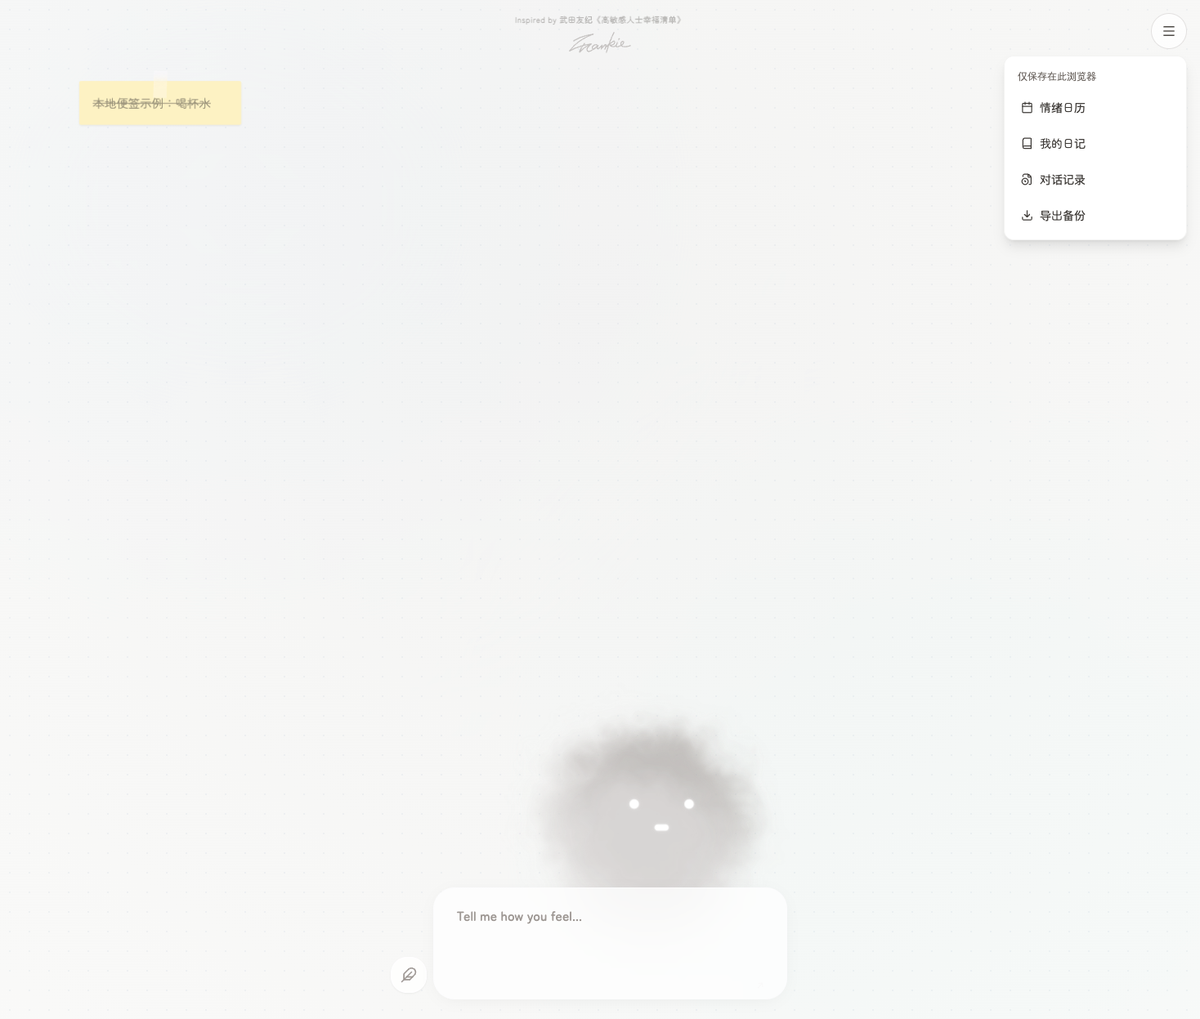
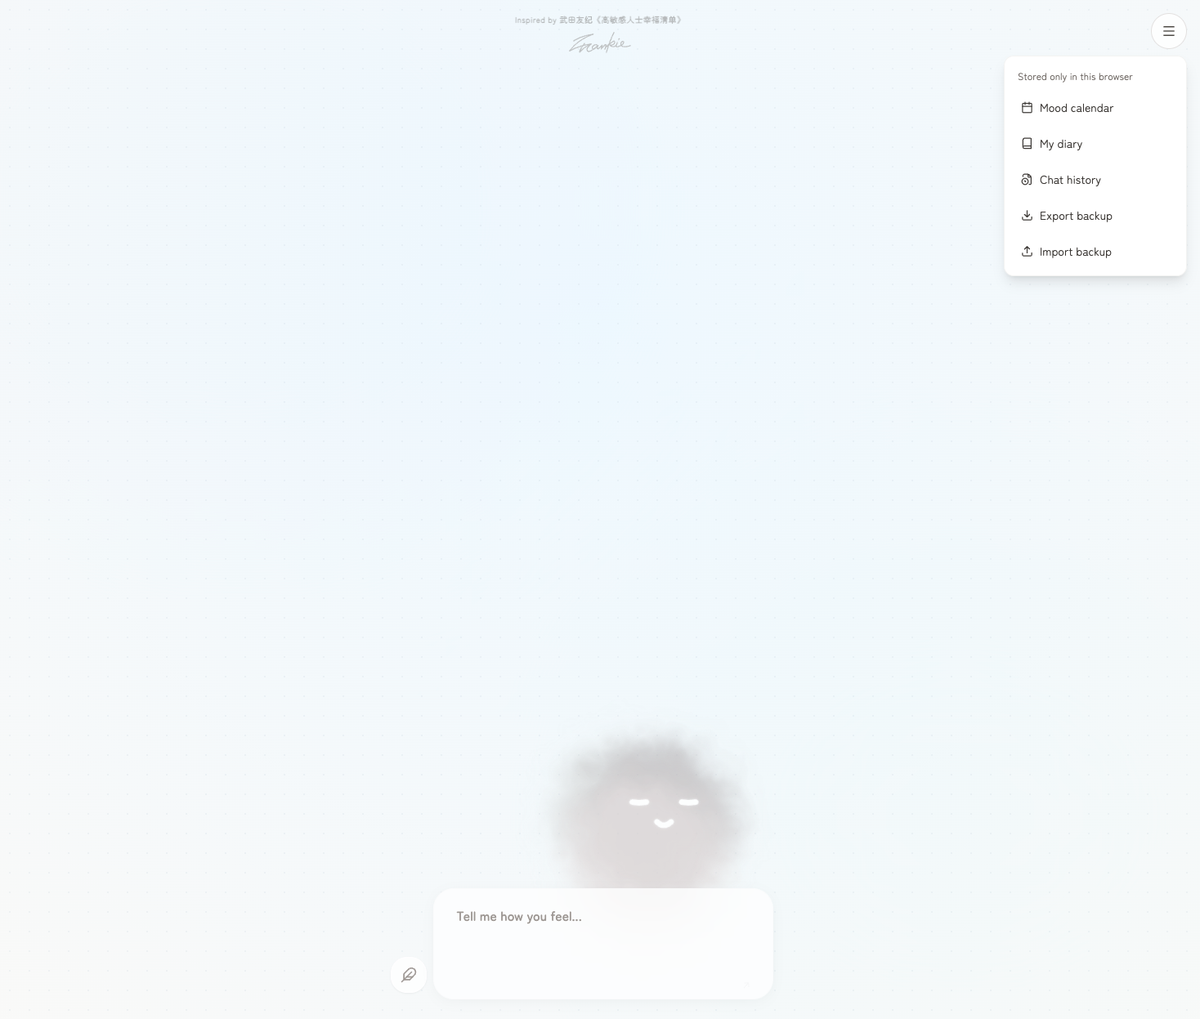
feat: restore local records from JSON backups

Changed region(s): [[0.8583, 0.0609, 0.9809, 0.2743], [0.0613, 0.0609, 0.2146, 0.1219], [0.5211, 0.7009, 0.6131, 0.7923]]

diff --git a/components/ImportBackup.tsx b/components/ImportBackup.tsx
@@ -1,0 +1,102 @@
+import React, { useEffect, useRef, useState } from 'react';
+import { MAX_BACKUP_BYTES, parseBackup, type LocalSnapshot } from '../services/localStorage';
+
+interface Props {
+  language: 'en' | 'cn';
+  waitingForAI: boolean;
+  onClose: () => void;
+  onExport: () => void;
+  onRestore: (snapshot: LocalSnapshot) => void;
+}
+
+export default function ImportBackup({ language, waitingForAI, onClose, onExport, onRestore }: Props) {
+  const zh = language === 'cn';
+  const [backup, setBackup] = useState<LocalSnapshot | null>(null);
+  const [fileName, setFileName] = useState('');
+  const [error, setError] = useState('');
+  const [reading, setReading] = useState(false);
+  const [restoring, setRestoring] = useState(false);
+  const dialog = useRef<HTMLDivElement>(null);
+  const readVersion = useRef(0);
+
+  useEffect(() => {
+    const previous = document.activeElement as HTMLElement | null;
+    dialog.current?.focus();
+    return () => {
+      readVersion.current++;
+      if (previous?.isConnected) previous.focus();
+      else document.querySelector<HTMLButtonElement>('[aria-controls="local-records"]')?.focus();
+    };
+  }, []);
+
+  const selectFile = async (event: React.ChangeEvent<HTMLInputElement>) => {
+    const file = event.target.files?.[0];
+    const version = ++readVersion.current;
+    setBackup(null); setError(''); setFileName('');
+    if (!file) { setReading(false); return; }
+    if (file.size > MAX_BACKUP_BYTES) {
+      setError(zh ? '文件超过 10 MB，请选择较小的 Aurora JSON 备份。' : 'File exceeds 10 MB. Choose a smaller Aurora JSON backup.');
+      return;
+    }
+    setReading(true);
+    try {
+      const parsed = parseBackup(await file.text());
+      if (version !== readVersion.current) return;
+      setBackup(parsed); setFileName(file.name);
+    } catch {
+      if (version !== readVersion.current) return;
+      setError(zh ? '无法读取有效的 Aurora v1 JSON 备份。请检查文件、版本和记录格式；当前数据未改变。' : 'This is not a valid Aurora v1 JSON backup. Check its format, version and records. Current data is unchanged.');
+    } finally {
+      if (version === readVersion.current) setReading(false);
+    }
+  };
+
+  const restore = () => {
+    if (!backup || waitingForAI || reading || restoring) return;
+    setRestoring(true); setError('');
+    try { onRestore(backup); }
+    catch {
+      setRestoring(false);
+      setError(zh ? '恢复失败，当前记录未被替换。请检查浏览器存储权限或可用空间。' : 'Restore failed; current records were not replaced. Check browser storage permissions or available space.');
+    }
+  };
+
+  const counts = backup ? [
+    [zh ? '对话消息' : 'Chat messages', backup.messages.filter(m => m.type !== 'diary').length],
+    [zh ? '日记' : 'Diary entries', backup.messages.filter(m => m.type === 'diary').length],
+    [zh ? '便签' : 'Notes', backup.todos.length],
+    [zh ? '情绪记录' : 'Mood records', backup.emotionLogs.length],
+  ] as const : [];
+
+  return <div className="fixed inset-0 z-[300] flex items-center justify-center bg-stone-900/30 p-4">
+    <div ref={dialog} role="dialog" aria-modal="true" aria-labelledby="import-title" aria-describedby="import-description" tabIndex={-1}
+      className="w-full max-w-lg max-h-[90dvh] overflow-y-auto rounded-2xl bg-stone-50 p-6 shadow-xl outline-none"
+      onKeyDown={event => {
+        if (event.key === 'Escape' && !restoring) { event.stopPropagation(); onClose(); }
+        if (event.key === 'Tab') {
+          const nodes = Array.from(dialog.current?.querySelectorAll<HTMLElement>('button:not(:disabled), input:not(:disabled), a[href]') || []) as HTMLElement[];
+          const first = nodes[0], last = nodes[nodes.length - 1];
+          if (event.shiftKey && (document.activeElement === first || document.activeElement === dialog.current)) { event.preventDefault(); last?.focus(); }
+          else if (!event.shiftKey && (document.activeElement === last || document.activeElement === dialog.current)) { event.preventDefault(); first?.focus(); }
+        }
+      }}>
+      <h2 id="import-title" className="text-xl font-medium text-stone-800">{zh ? '导入 JSON 备份' : 'Import JSON backup'}</h2>
+      <p id="import-description" className="mt-3 text-sm leading-relaxed text-stone-600">{zh ? '文件只在此浏览器读取，不会上传。确认恢复将替换当前对话、日记、便签、情绪记录及偏好，不会合并。建议先导出当前记录。' : 'The file is read in this browser and is not uploaded. Confirming restore replaces current chats, diary, notes, mood history and preferences; it does not merge them. Export your current records first.'}</p>
+      <button type="button" onClick={onExport} className="mt-3 min-h-11 text-sm underline text-stone-700">{zh ? '先导出当前记录' : 'Export current records first'}</button>
+      <label className="mt-4 block text-sm text-stone-700" htmlFor="backup-file">{zh ? '选择 Aurora JSON 文件（最大 10 MB）' : 'Choose an Aurora JSON file (up to 10 MB)'}</label>
+      <input id="backup-file" type="file" accept=".json,application/json" onChange={selectFile} disabled={reading || restoring} className="mt-2 block w-full text-sm text-stone-600 file:mr-3 file:rounded-lg file:border-0 file:bg-white file:px-3 file:py-3" />
+      {reading ? <p role="status" className="mt-4 text-sm">{zh ? '正在校验文件…' : 'Checking file…'}</p> : null}
+      {backup ? <div className="mt-5 rounded-xl border border-stone-200 bg-white p-4" aria-label={zh ? '备份预览' : 'Backup preview'}>
+        <p className="text-sm font-medium text-stone-700 break-all">{fileName}</p>
+        <dl className="mt-3 grid grid-cols-2 gap-3 text-sm text-stone-600">{counts.map(([label, count]) => <div key={label}><dt>{label}</dt><dd className="mt-1 text-lg text-stone-800">{count}</dd></div>)}</dl>
+        {counts.every(([, count]) => count === 0) ? <p className="mt-3 text-sm text-amber-800">{zh ? '这是空备份，恢复后将清空当前记录。' : 'This backup is empty. Restoring it clears current records.'}</p> : null}
+      </div> : null}
+      {waitingForAI ? <p role="status" className="mt-4 text-sm text-stone-600">{zh ? '请等待当前 AI 回复完成后再恢复。' : 'Wait for the current AI reply before restoring.'}</p> : null}
+      {error ? <p role="alert" className="mt-4 text-sm text-red-700">{error}</p> : null}
+      <div className="mt-6 flex flex-wrap justify-end gap-3">
+        <button type="button" onClick={onClose} disabled={restoring} className="min-h-11 rounded-full border border-stone-300 px-5 text-sm text-stone-700">{zh ? '取消' : 'Cancel'}</button>
+        <button type="button" onClick={restore} disabled={!backup || reading || restoring || waitingForAI} className="min-h-11 rounded-full bg-stone-800 px-5 text-sm text-white disabled:opacity-35">{restoring ? (zh ? '正在恢复…' : 'Restoring…') : (zh ? '确认替换并恢复' : 'Replace records and restore')}</button>
+      </div>
+    </div>
+  </div>;
+}

diff --git a/App.tsx b/App.tsx
@@ -10,6 +10,7 @@ import MemoWall from "./components/MemoWall";
 import DebugPanel from "./components/DebugPanel";
 import SpeechBubble from "./components/SpeechBubble";
 import LocalMenu from "./components/LocalMenu";
+import ImportBackup from "./components/ImportBackup";
 import EmotionCalendar from "./components/EmotionCalendar";
 import ChatHistory from "./components/ChatHistory";
 import LandingPage from "./components/LandingPage";
@@ -25,7 +26,7 @@ import {
   NEW_USER_GREETING,
 } from "./constants";
 import type { ChatContent as Content } from "./services/openaiService";
-import { loadSnapshot, saveSnapshot, type LocalSnapshot } from "./services/localStorage";
+import { loadSnapshot, saveSnapshot, restoreBackup, type LocalSnapshot } from "./services/localStorage";
 
 
 const App: React.FC = () => {
@@ -50,6 +51,8 @@ const App: React.FC = () => {
 
   const [hydrated, setHydrated] = useState(false);
   const [storageError, setStorageError] = useState('');
+  const [showImport, setShowImport] = useState(false);
+  const restoringBackup = useRef(false);
   const [visited, setVisited] = useState(false);
   const [emotionLogs, setEmotionLogs] = useState<EmotionLog[]>([]);
   const [showCalendar, setShowCalendar] = useState(false);
@@ -164,7 +167,7 @@ const App: React.FC = () => {
 
   const snapshot: LocalSnapshot = {version:1,messages,todos:savedTodos,emotionLogs,category:currentCategory,emotion:currentEmotion,language,visited};
   useEffect(() => {
-    if (!hydrated) return;
+    if (!hydrated || restoringBackup.current) return;
     try { saveSnapshot(snapshot); setStorageError(''); }
     catch { setStorageError('Changes could not be saved in this browser. Export a backup before closing this page.'); }
   }, [hydrated, messages, savedTodos, emotionLogs, currentCategory, currentEmotion, language, visited]);
@@ -176,6 +179,16 @@ const App: React.FC = () => {
     const url=URL.createObjectURL(new Blob([JSON.stringify(snapshot,null,2)],{type:'application/json'}));
     const a=document.createElement('a'); a.href=url; a.download='aurora-backup-'+new Date().toISOString().slice(0,10)+'.json'; a.click();
     setTimeout(()=>URL.revokeObjectURL(url),0);
+  };
+
+  const handleRestore = (backup: LocalSnapshot) => {
+    if (isLoading) throw new Error('Wait for the active AI response.');
+    restoringBackup.current = true;
+    try { restoreBackup(backup); }
+    catch (error) { restoringBackup.current = false; throw error; }
+    // A fresh mount resets drafts, timers, modal state and AI history together.
+    // The persistence guard prevents stale state overwriting the restored data.
+    window.location.reload();
   };
 
   const lastModelMessage = [...messages].reverse().find(m => m.role === "model") || null;
@@ -239,7 +252,7 @@ const App: React.FC = () => {
 
   // --- Logic: Avatar Reactions ---
   const triggerReaction = (type: keyof typeof AVATAR_REACTIONS) => {
-    if (isLoading || showLanding) return;
+    if (isLoading || showLanding || restoringBackup.current) return;
 
     const hasUnsavedSuggestions =
       lastModelMessage?.suggestions &&
@@ -481,9 +494,10 @@ const App: React.FC = () => {
 
   return (
     <div
-      className="relative w-full h-[100dvh] overflow-hidden touch-none transition-colors duration-1000 ease-in-out"
+      className={`relative w-full h-[100dvh] overflow-hidden ${showImport ? "touch-auto" : "touch-none"} transition-colors duration-1000 ease-in-out`}
       style={{ background: theme.bgGradient }}
     >
+      {showImport ? <ImportBackup language={language} waitingForAI={isLoading} onClose={() => setShowImport(false)} onExport={exportBackup} onRestore={handleRestore} /> : null}
       {/* Zen Mode Overlay */}
       {isZenMode && (
         <ZenMode 
@@ -493,7 +507,7 @@ const App: React.FC = () => {
         />
       )}
 
-      {storageError ? <div role="alert" className="fixed top-2 left-2 right-2 z-[200] bg-amber-50 text-amber-950 border border-amber-200 rounded-lg p-3 text-sm">{storageError} <button className="underline ml-2" onClick={exportBackup}>Export backup</button></div> : null}
+      {storageError ? <div role="alert" className="fixed top-2 left-2 right-2 z-[200] bg-amber-50 text-amber-950 border border-amber-200 rounded-lg p-3 text-sm">{storageError} <button className="underline ml-2" onClick={exportBackup}>Export backup</button> <button className="underline ml-2" onClick={() => setShowImport(true)}>Import backup</button></div> : null}
       {/* Main App Content - Hidden when in Zen Mode */}
       <div className={`transition-opacity duration-700 ${isZenMode ? 'opacity-0 pointer-events-none' : 'opacity-100'}`}>
           {showLanding && (
@@ -621,6 +635,7 @@ const App: React.FC = () => {
               onOpenCalendar={() => setShowCalendar(true)}
               onOpenChatHistory={() => setShowChatHistory(true)}
               onOpenMyDiary={() => setShowMyDiary(true)}
+              onImport={() => setShowImport(true)}
               onExport={exportBackup}
               onOpenDebug={import.meta.env.DEV ? () => setShowDebug(true) : undefined}
             />

diff --git a/services/localStorage.ts b/services/localStorage.ts
@@ -20,3 +20,68 @@ export function saveSnapshot(snapshot: LocalSnapshot, store: Store = localStorag
  // One atomic localStorage write; quota/permission failures must reach the UI.
  store.setItem(STORAGE_KEY, JSON.stringify(normalize(snapshot)));
 }
+
+export const MAX_BACKUP_BYTES = 10 * 1024 * 1024;
+
+// Imported files need stricter validation than the existing legacy-data reader.
+// Only documented fields are restored; file-supplied extra properties are ignored.
+export function validateBackup(value: unknown): LocalSnapshot {
+ const invalid = () => { throw new Error('Invalid Aurora backup.'); };
+ const object = (v: unknown): v is Record<string, any> => !!v && typeof v === 'object' && !Array.isArray(v);
+ const text = (v: unknown): v is string => typeof v === 'string';
+ const date = (v: unknown) => typeof v === 'number' && Number.isFinite(v) && v >= 0 && v <= 8640000000000000;
+ const optional = (v: unknown, check: (v: any) => boolean) => v === undefined || check(v);
+ const pick = (v: Record<string, any>, keys: string[]) => Object.fromEntries(keys.filter(k => v[k] !== undefined).map(k => [k, v[k]]));
+ if (!object(value)) return invalid();
+ if (value.version !== 1) throw new Error('Unsupported Aurora backup version.');
+ if (!Array.isArray(value.messages) || !Array.isArray(value.todos) || !Array.isArray(value.emotionLogs)
+   || !CATEGORIES.includes(value.category) || !EMOTIONS.includes(value.emotion)
+   || !['en', 'cn'].includes(value.language) || typeof value.visited !== 'boolean') return invalid();
+ const uniqueIds = (items: unknown[]) => {
+   const ids = new Set<string>();
+   for (const item of items) {
+     if (!object(item) || !text(item.id) || !item.id.trim() || ids.has(item.id)) return invalid();
+     ids.add(item.id);
+   }
+ };
+ for (const items of [value.messages, value.todos, value.emotionLogs]) uniqueIds(items);
+ for (const m of value.messages) {
+   if (!['user', 'model'].includes(m.role) || !text(m.text) || !date(m.timestamp)
+     || !optional(m.type, v => ['chat', 'diary'].includes(v))
+     || !optional(m.emotion, v => EMOTIONS.includes(v)) || !optional(m.category, v => CATEGORIES.includes(v))
+     || !optional(m.suggestions, v => Array.isArray(v) && v.every(text))) return invalid();
+ }
+ for (const t of value.todos) {
+   if (!text(t.text) || typeof t.completed !== 'boolean' || !date(t.timestamp)
+     || ![t.x, t.y].every(v => typeof v === 'number' && Number.isFinite(v) && Math.abs(v) <= 10000000)
+     || !optional(t.rotation, v => typeof v === 'number' && Number.isFinite(v) && Math.abs(v) <= 3600)
+     || !optional(t.color, v => text(v) && v.length <= 100)) return invalid();
+ }
+ for (const log of value.emotionLogs) {
+   if (!date(log.timestamp) || !EMOTIONS.includes(log.emotion) || !CATEGORIES.includes(log.category)
+     || !optional(log.note, text)) return invalid();
+ }
+ return {
+   version: 1,
+   messages: value.messages.map(m => pick(m, ['id', 'role', 'text', 'timestamp', 'suggestions', 'category', 'emotion', 'type'])) as Message[],
+   todos: value.todos.map(t => pick(t, ['id', 'text', 'completed', 'timestamp', 'x', 'y', 'rotation', 'color'])) as TodoItem[],
+   emotionLogs: value.emotionLogs.map(l => pick(l, ['id', 'emotion', 'category', 'timestamp', 'note'])) as EmotionLog[],
+   category: value.category, emotion: value.emotion, language: value.language, visited: value.visited,
+ };
+}
+
+export function parseBackup(text: string): LocalSnapshot {
+ if (new TextEncoder().encode(text).byteLength > MAX_BACKUP_BYTES) throw new Error('Backup exceeds 10 MB.');
+ let value: unknown;
+ try { value = JSON.parse(text.replace(/^\uFEFF/, '')); }
+ catch { throw new Error('The file is not valid JSON.'); }
+ return validateBackup(value);
+}
+
+export function restoreBackup(snapshot: LocalSnapshot, store: Store = localStorage): LocalSnapshot {
+ const validated = validateBackup(snapshot);
+ // The only write happens after complete validation. A failed setItem leaves
+ // the existing browser snapshot intact; callers must not update UI state first.
+ saveSnapshot(validated, store);
+ return validated;
+}

diff --git a/components/LocalMenu.tsx b/components/LocalMenu.tsx
@@ -1,9 +1,9 @@
 import React from 'react';
-import { Book, Calendar, FileClock, Download, Wrench, Menu } from 'lucide-react';
-interface Props { language: 'en'|'cn'; onOpenCalendar:()=>void; onOpenChatHistory:()=>void; onOpenMyDiary:()=>void; onExport:()=>void; onOpenDebug?:()=>void; }
+import { Book, Calendar, FileClock, Download, Upload, Wrench, Menu } from 'lucide-react';
+interface Props { language: 'en'|'cn'; onOpenCalendar:()=>void; onOpenChatHistory:()=>void; onOpenMyDiary:()=>void; onExport:()=>void; onImport:()=>void; onOpenDebug?:()=>void; }
 export default function LocalMenu(props: Props) {
  const [open,setOpen]=React.useState(false); const zh=props.language==='cn';
- const items=[[Calendar,zh?'情绪日历':'Mood calendar',props.onOpenCalendar],[Book,zh?'我的日记':'My diary',props.onOpenMyDiary],[FileClock,zh?'对话记录':'Chat history',props.onOpenChatHistory],[Download,zh?'导出备份':'Export backup',props.onExport],...(props.onOpenDebug?[[Wrench,'Debug',props.onOpenDebug]]:[])] as const;
+ const items=[[Calendar,zh?'情绪日历':'Mood calendar',props.onOpenCalendar],[Book,zh?'我的日记':'My diary',props.onOpenMyDiary],[FileClock,zh?'对话记录':'Chat history',props.onOpenChatHistory],[Download,zh?'导出备份':'Export backup',props.onExport],[Upload,zh?'导入备份':'Import backup',props.onImport],...(props.onOpenDebug?[[Wrench,'Debug',props.onOpenDebug]]:[])] as const;
  return <div className="relative" onKeyDown={e=>{if(e.key==='Escape')setOpen(false);}}>
   <button aria-label={zh?'打开本地记录':'Open local records'} aria-expanded={open} aria-controls="local-records" onClick={()=>setOpen(!open)} className="w-11 h-11 rounded-full bg-white/80 border border-stone-200 flex items-center justify-center text-stone-600"><Menu size={18}/></button>
   {open?<div id="local-records" className="absolute right-0 top-full mt-2 w-56 bg-white rounded-xl shadow-lg border border-stone-100 p-2 z-50">

diff --git a/docs/local-storage.md b/docs/local-storage.md
@@ -7,7 +7,7 @@ Aurora no longer uses Google sign-in, Firebase Auth or Firestore. Calendar, diar
 - Diary edits/deletions update the same in-memory source as persistence and history views. Diary saves are local and do not make an AI request. / 日记编辑、删除与历史页面共用数据源；日记保存只在本地完成，不触发 AI 请求。
 - Corrupt or unsupported data is not overwritten automatically. If storage is blocked or full, a visible warning explains that records cannot be saved. The local menu can export the current session as JSON. / 损坏或不支持的数据不会自动覆盖；存储禁用或容量不足时会提示，可导出当前会话 JSON。
 - Storage belongs to this browser profile and origin. Different devices, browsers and hostnames do not synchronize. Clearing site data removes current local records. / 不同设备、浏览器与域名不自动同步；清理站点数据会移除本地记录。
-- The local-records menu provides JSON export. It contains private diary/chat content; choose where to keep it. / 本地记录菜单支持 JSON 导出，内容包含私人日记和对话，请自行妥善保管。
+- The local-records menu provides JSON export and import. It contains private diary/chat content; choose where to keep it. / 本地记录菜单支持 JSON 导出与导入，内容包含私人日记和对话，请自行妥善保管。
 - Existing Firebase cloud data is neither fetched nor deleted by this version. It has not been automatically transferred to this browser. / 此版本不读取或删除旧 Firebase 云端数据，也不会自动迁入当前浏览器。
 - AI conversation still requires internet. When you explicitly send a chat message for a response, that text and relevant chat/note context go through the app's server to OpenAI; the key stays on Vercel. / AI 回复仍需联网：发送聊天时，正文与相关聊天、便签上下文会通过应用服务端交给 OpenAI，key 保存在 Vercel。
 
@@ -19,3 +19,12 @@ npm run build
 ```
 
 Diary entries are excluded from the AI conversation context. They are sent only if you explicitly copy their text into a chat message. / 日记不会自动加入 AI 对话上下文；只有你主动将正文复制到聊天中发送时，才会交给 AI。
+
+## Restore a backup / 从备份恢复
+
+1. Open **Local records → Import backup** and select the JSON exported by Aurora. The file is read locally; it is not uploaded. Files up to 10 MB and backup version 1 are supported. / 打开本地记录菜单中的“导入备份”，选择 Aurora 导出的 JSON 文件；仅在本地读取，不上传，支持最大 10 MB 的 v1 备份。
+2. Review the chat, diary, note and mood counts. Use **Export current records first** to keep a copy before proceeding. Preferences, note positions and completion state are restored too. / 核对数量，建议先导出当前记录；语言、显示偏好、便签位置和完成状态也会恢复。
+3. Choose **Replace records and restore** to replace this browser's current snapshot. This is replacement, not merging. The page reloads after the atomic write to reset old timers, drafts and AI context. / 确认后替换当前快照，不合并；写入成功后刷新页面，重置旧计时器、草稿和 AI 上下文。
+4. Cancelling or selecting an invalid file does not change current records. Malformed JSON, unsupported versions, invalid nested fields and duplicate IDs are rejected. A storage/quota failure leaves the previous snapshot intact. An empty backup requires the same explicit confirmation and is clearly labelled as clearing current records. / 取消和无效文件不会改变数据；格式、版本、记录字段和重复 ID 都会校验，存储失败不会覆盖原快照，空备份会明确提示清空当前记录。
+
+Restoring is disabled while an AI response is pending. If the backup changes language or the entry-screen preference, those settings take effect after reload. / AI 回复进行中不可恢复；备份中的语言和入口偏好会在刷新后生效。

diff --git a/site/GUIDE.md b/site/GUIDE.md
@@ -14,7 +14,7 @@
 | Source / 来源 | What it shows / 内容 |
 | --- | --- |
 | `docs/readme/assets/ui.png` | Current product interface and original assets. |
-| `site/assets/local-records.png` | Local-records menu and export action, using sample data. |
+| `site/assets/local-records.png` | Local-records menu, JSON export and import actions, using sample data. |
 | `site/assets/diary.png` | Local diary using a sample entry. |
 | `site/assets/calendar.png` | Mood calendar using local sample data. |
 
@@ -51,3 +51,7 @@ The app signature uses `public/frankie-signature.svg`, copied from the approved 
 ## Local-data screens / 本地记录界面
 
 Recapture the landing, local-records menu, diary and calendar screenshots when their controls change. Use a separate preview origin with clearly labelled synthetic entries; never capture a real personal diary. Storage behavior is documented in [local-storage.md](../docs/local-storage.md). / 入口、记录菜单、日记或日历变化时重新采集；使用独立预览地址和标明的示例内容，勿采集真实私人日记。
+
+## Backup restore screen / 备份恢复界面
+
+`site/assets/import-backup.png` shows a validated backup preview with sample data. Recapture it when the import controls, confirmation warning or restored fields change. / 该图展示示例数据的校验预览；导入控件、确认提示或恢复字段变化时重新采集。

diff --git a/README.md b/README.md
@@ -25,7 +25,7 @@ Open the URL printed by Vite. AI conversation uses the server-side `OPENAI_API_K
 
 ## Before you start
 
-Messages, diary entries, notes and emotion history are stored in this browser. Existing browser records are retained; old Firebase-only records are not automatically imported. Export your data from the local-records menu before clearing browser storage or changing devices. AI conversation runs through the same-origin `/api/chat` endpoint using OpenAI. The API key stays on the server and is never included in the browser bundle.
+Messages, diary entries, notes and emotion history are stored in this browser. Existing browser records are retained; old Firebase-only records are not automatically imported. Export your data from the local-records menu before clearing browser storage or changing devices. You can import an Aurora JSON backup there too; preview and confirmation are required before it replaces current records. AI conversation runs through the same-origin `/api/chat` endpoint using OpenAI. The API key stays on the server and is never included in the browser bundle.
 
 ## For developers
 

diff --git a/README.zh-CN.md b/README.zh-CN.md
@@ -25,7 +25,7 @@ npm run dev
 
 ## 开始之前
 
-无需登录。对话、日记、便签和情绪记录保存在当前浏览器；已有浏览器记录会保留，旧 Firebase 云端独有记录不会自动导入。清理浏览器或更换设备前，可从本地记录菜单导出数据。AI 对话通过同源 `/api/chat` 接口调用 OpenAI，key 仅保存在服务端，不进入浏览器构建产物。
+无需登录。对话、日记、便签和情绪记录保存在当前浏览器；已有浏览器记录会保留，旧 Firebase 云端独有记录不会自动导入。清理浏览器或更换设备前，可从本地记录菜单导出数据；也可导入 Aurora JSON 备份，预览并确认后才替换当前记录。AI 对话通过同源 `/api/chat` 接口调用 OpenAI，key 仅保存在服务端，不进入浏览器构建产物。
 
 ## 开发说明
 
